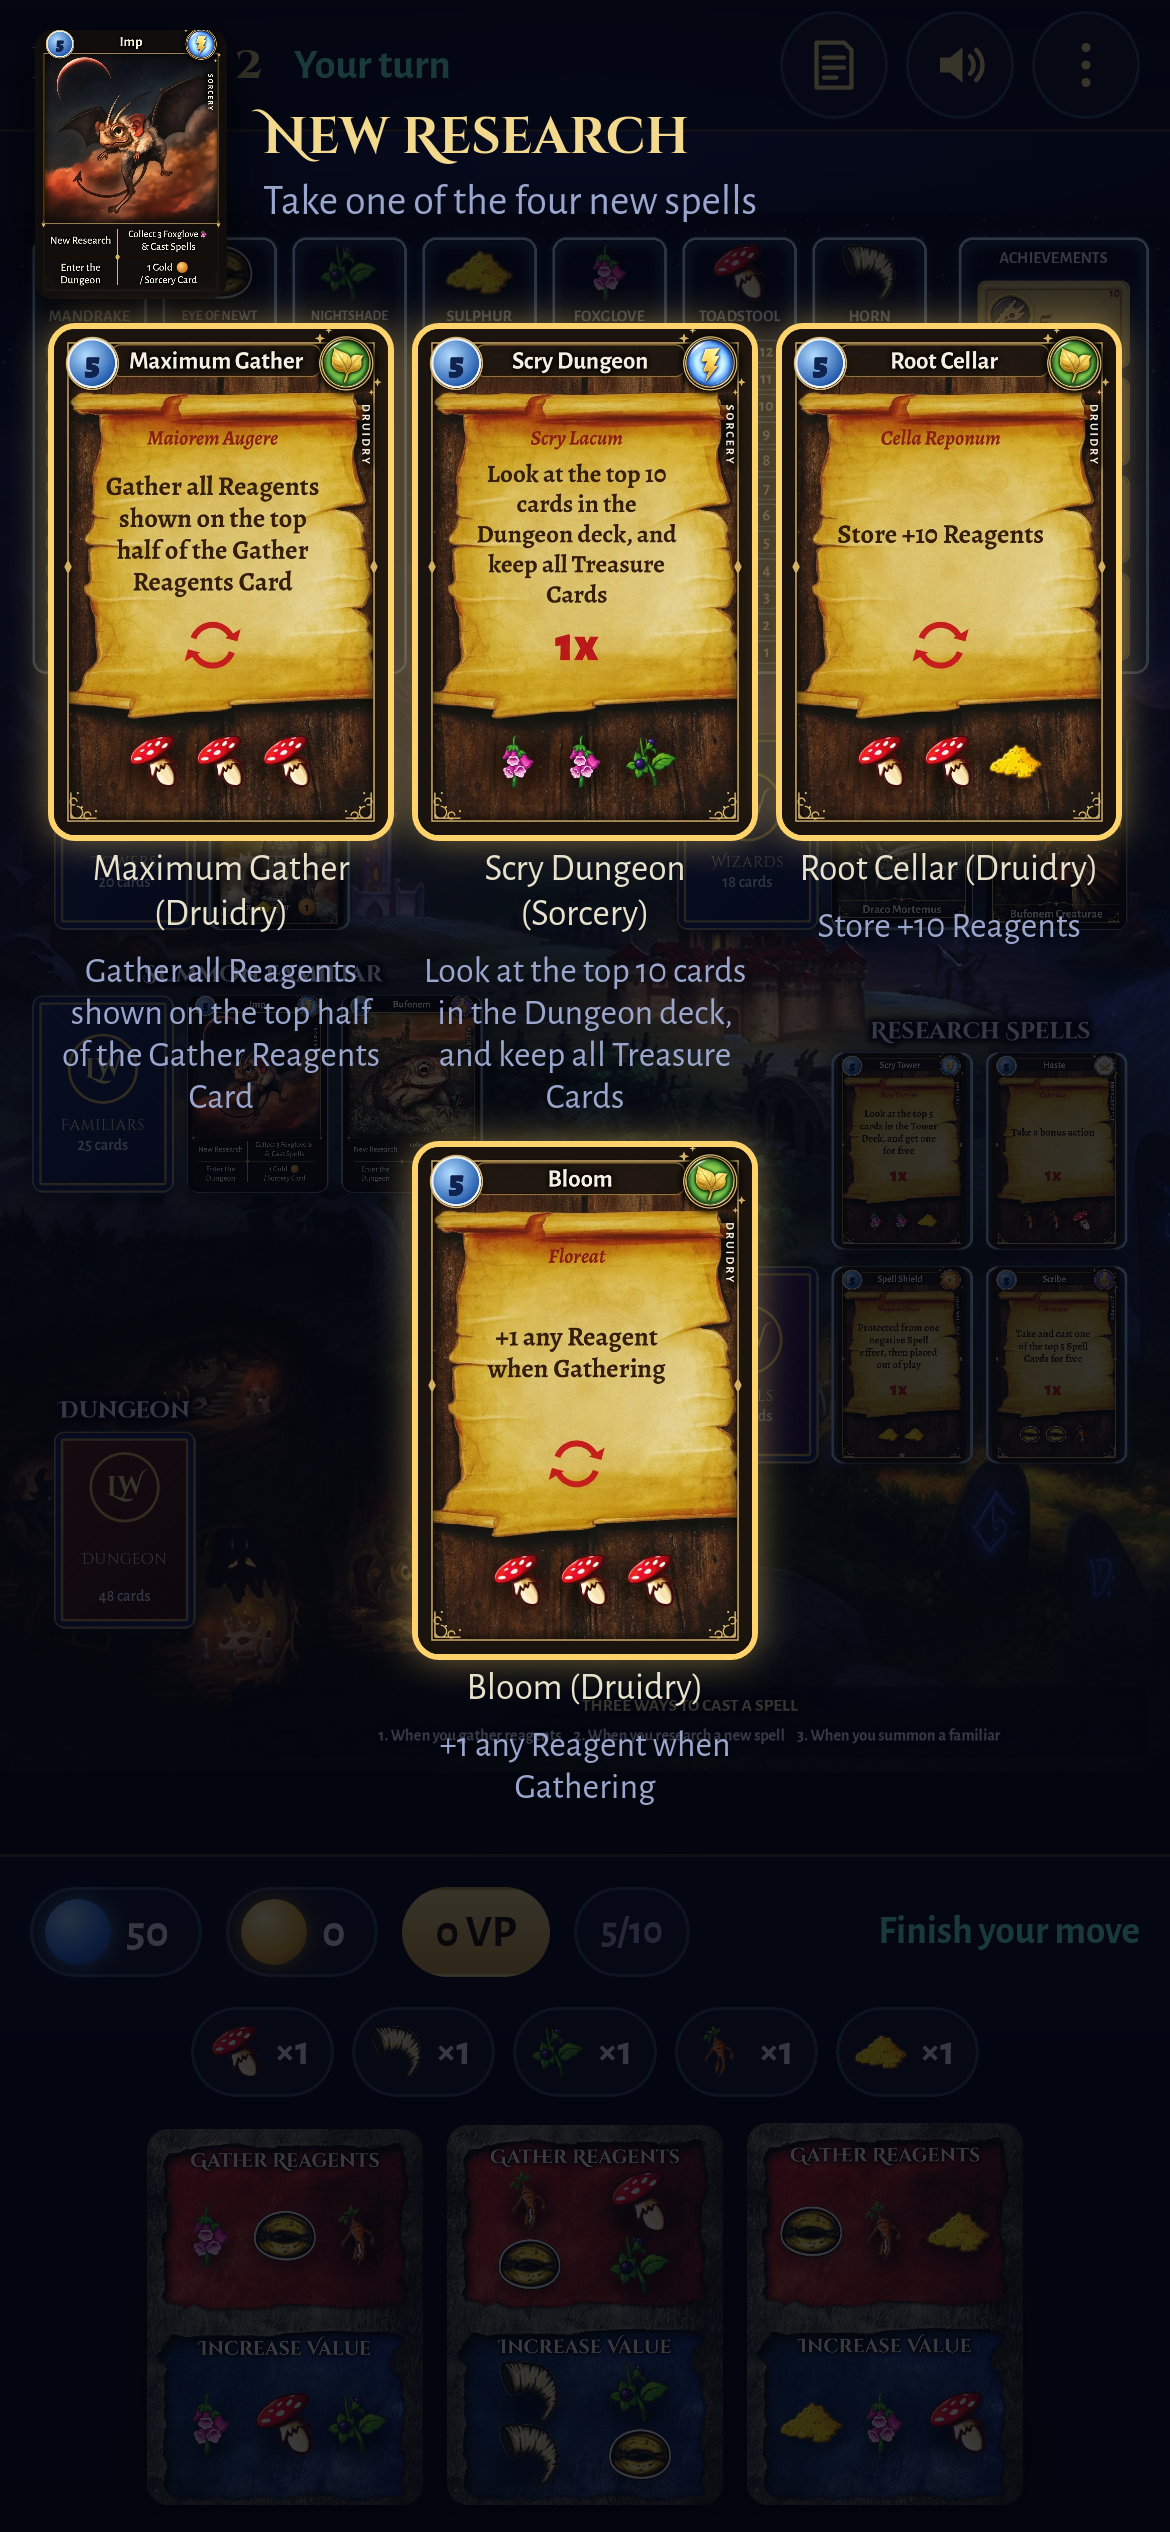
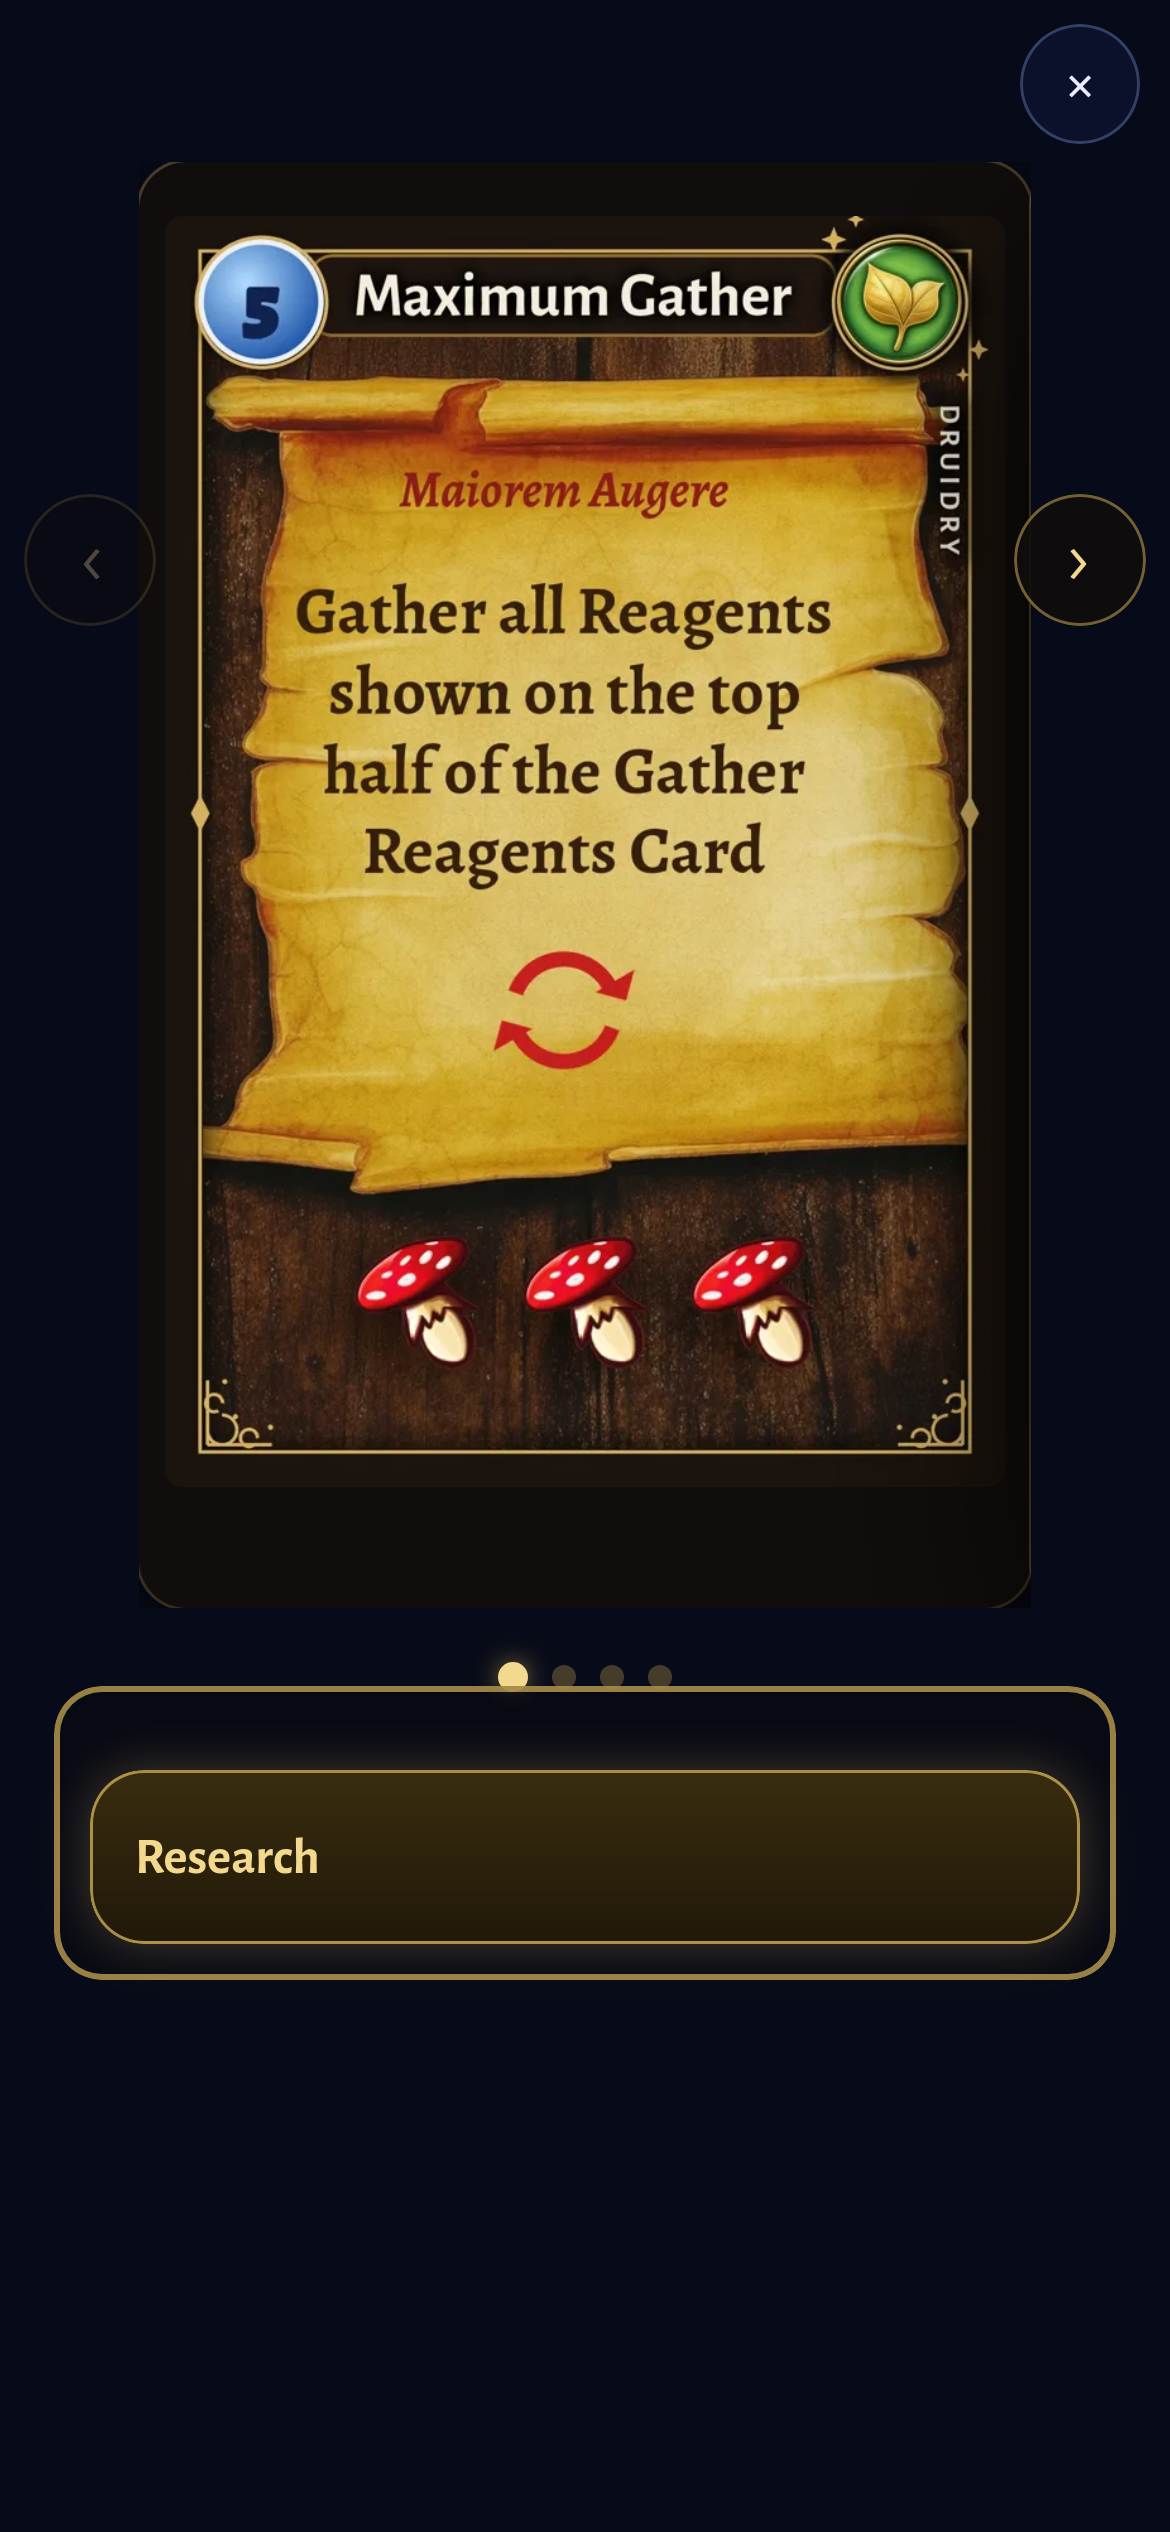
Familiar New Research looks like the Research action (#123) (#125)
* Familiar New Research uses the Research carousel (#123)

newResearchChooser built its own .opt-card grid with school, mana and reagent
chips inside each card button; '.opt-card img { width: 100% }' stretched every
chip icon to the card width (huge medallions and reagent tiles), and each card
repeated its effect text. It now opens the four spells in the same expandCard
carousel as the Research action (research-action-frame, no card-info panel) with
one free Research button. '.opt-card img' is scoped to the card art
('.opt-card > img') so chips inside any picker card keep their size.

* e2e: Research and familiar New Research keep normal-size chips (#123)

* e2e: New Research card must not be smaller than the Research card

The exact-size comparison flaked on CI WebKit, where the Research action's
reference card sometimes lays out ~96px narrower; the familiar card is now only
required to be at least as large.

---------

diff --git a/tests/e2e/research-icon-size.spec.js b/tests/e2e/research-icon-size.spec.js
@@ -1,0 +1,94 @@
+import fs from 'fs';
+import { test, expect } from './fixtures.js';
+import { boot } from './helpers.js';
+
+// Issue #123. fixtures/issue-123-research.json: Keith's round 23 save (40 mana) on his turn.
+// fixtures/issue-123-new-research.json: the same save after summoning Aranea for New Research (four spells pending).
+// A familiar's New Research must look like the Research action: one spell in the shared carousel, the research
+// action frame, no card-info text panel, and chips at their normal size.
+const RESEARCH = fs.readFileSync('tests/e2e/fixtures/issue-123-research.json', 'utf8');
+const NEW_RESEARCH = fs.readFileSync('tests/e2e/fixtures/issue-123-new-research.json', 'utf8');
+
+test.use({ viewport: { width: 430, height: 775 } });
+
+// Wait for the card's open animation to finish: its width must hold for a few frames.
+async function settled(page, testid) {
+  await page.waitForFunction((testid) => {
+    const img = document.querySelector(`[data-testid="${testid}"]:not(.out) [data-testid=expanded-img]`);
+    const w = img ? Math.round(img.getBoundingClientRect().width) : 0;
+    const prev = window.__w; window.__w = w;
+    window.__same = w > 0 && w === prev ? (window.__same || 0) + 1 : 0;
+    return window.__same >= 5;
+  }, testid, { polling: 100, timeout: 10_000 });
+}
+
+async function measure(page, testid) {
+  await settled(page, testid);
+  return page.evaluate((testid) => {
+    const ov = document.querySelector(`[data-testid="${testid}"]:not(.out)`);
+    const box = (e) => { const r = e.getBoundingClientRect(); return { w: r.width, h: r.height }; };
+    const card = ov.querySelector('[data-testid=expanded-img]');
+    const visible = (e) => e && !e.closest('[hidden]') && box(e).w > 0;
+    const others = [...ov.querySelectorAll('img')].filter((i) => visible(i) && i !== card && !i.closest('.big-frame'));
+    return {
+      cardW: card ? box(card).w : 0,
+      chipIcons: [...ov.querySelectorAll('[class*=chip] img')].filter(visible).map((i) => Math.max(box(i).w, box(i).h)),
+      otherImgs: others.map((i) => ({ src: i.getAttribute('src'), w: box(i).w })),
+      frame: !!ov.querySelector('.research-action-frame'),
+      cardText: [...ov.querySelectorAll('.ci-text, .oc-label')].filter(visible).length,
+      overflow: document.documentElement.scrollWidth - innerWidth,
+    };
+  }, testid);
+}
+
+function expectNormalSize(m) {
+  expect(m.cardW).toBeGreaterThan(100);
+  expect(m.chipIcons.every((w) => w <= 32), `chip icons ${m.chipIcons}`).toBe(true);
+  for (const o of m.otherImgs) expect(o.w, `${o.src} stays below a third of the card`).toBeLessThanOrEqual(m.cardW / 3);
+  expect(m.frame).toBe(true);
+  expect(m.cardText, 'no card-info text panel repeating the card').toBe(0);
+  expect(m.overflow).toBeLessThanOrEqual(0);
+}
+
+test('Research action: spell carousel with normal-size chips', async ({ page }) => {
+  await page.addInitScript((t) => localStorage.setItem('lw.save.v1', t), RESEARCH);
+  await boot(page);
+  await page.evaluate(() => { const g = window.lwDebug._g; window.ui.researchFlow(g, Object.keys(g.v.legal.research)[0]); });
+  await expect(page.getByTestId('research-only')).toBeVisible();
+  await page.waitForTimeout(500);
+  const m = await measure(page, 'expanded');
+  expectNormalSize(m);
+  expect(m.chipIcons.length).toBeGreaterThan(0);
+});
+
+test('familiar New Research looks like the Research action (issue #123)', async ({ page }) => {
+  await page.addInitScript((t) => localStorage.setItem('lw.save.v1', t), RESEARCH);
+  await boot(page);
+  await page.evaluate(() => { const g = window.lwDebug._g; window.ui.researchFlow(g, Object.keys(g.v.legal.research)[0]); });
+  await expect(page.getByTestId('research-only')).toBeVisible();
+  await page.waitForTimeout(500);
+  const normal = await measure(page, 'expanded');
+
+  const page2 = await page.context().newPage();
+  await page2.addInitScript((t) => localStorage.setItem('lw.save.v1', t), NEW_RESEARCH);
+  await boot(page2);
+  const nr = page2.getByTestId('new-research');
+  await expect(nr).toBeVisible();
+  await page2.waitForTimeout(500);
+  const m = await measure(page2, 'new-research');
+  expectNormalSize(m);
+  await expect(nr.locator('[data-testid=card-indicator] .dot')).toHaveCount(4);
+  // WebKit occasionally lays the Research action's card out smaller (two buttons under it); New Research must
+  // never come out smaller than it.
+  expect(m.cardW, 'card at least as large as in the Research action').toBeGreaterThanOrEqual(normal.cardW - 2);
+
+  const four = await page2.evaluate(() => window.lwDebug.view().pending.four);
+  await nr.getByTestId('nav-next').click();
+  await page2.waitForTimeout(400);
+  await nr.getByTestId('nr-take').tap();
+  await expect(nr).toHaveCount(0);
+  await expect.poll(() => page2.evaluate(() => window.lwDebug.view().pending)).toBeNull();
+  const mine = await page2.evaluate(() => window.lwDebug.view().players.find((p) => p.you).spells.map((x) => x.key || x));
+  expect(JSON.stringify(mine)).toContain(four[1]);
+  await page2.close();
+});

diff --git a/app/js/ui.js b/app/js/ui.js
@@ -1471,28 +1471,28 @@ export async function effectChooser(g) {
   return r;
 }
 
-export async function newResearchChooser(g) {
+// A familiar's New Research shows the four new spells in the same carousel as the Research action (expandCard,
+// research-action-frame, no card-info panel), with one free "Research" button per spell.
+export function newResearchChooser(g) {
   const pd = g.v.pending;
-  const ov = openOverlay('gather', { testid: 'new-research' });
-  const [p, done] = wait();
-  appendNodes(ov.el, h('div', { class: 'chooser-head' }, h('img', { src: art(pd.familiar), alt: '' }),
-    h('div', {}, h('div', { class: 'phase-title' }, 'New Research'), h('div', { class: 'ov-sub' }, 'Take one of the four new spells'))));
-  appendNodes(ov.el, h('div', { class: 'opt-grid' }, pd.four.map((k) => {
-    const c = g.cards[k] || {};
-    const school = c.school && !['Wild', 'Arch-Mage'].includes(c.school) ? c.school : null;
-    const name = (c.display || k).replace(school ? ` (${school})` : '', '');
-    const cost = Object.entries(c.cost?.reagents || {}).flatMap(([r, n]) => n === 'X' ? [r] : Array.from({ length: n }, () => r));
-    return h('button', { class: 'opt-card wide', 'data-testid': `nr-${k}`, onclick: () => done(k) },
-      h('img', { src: art(k), alt: k }), h('span', { class: 'oc-text' }, name),
-      school ? logSchoolChip(school) : null,
-      h('span', { class: 'oc-cost' }, logValueChip({ kind: 'mana', value: -(c.cost?.mana ?? 5) }),
-        ...groupReagents(cost).map(({ reagent: r, count }) => logReagentChip(r, { count }))),
-      h('span', { class: 'oc-label' }, c.effect));
-  })));
-  const k = await p;
-  const r = await g.act('choose_new_research', { spell: k }, { sound: 'select' });
-  ov.close();
-  return r;
+  return new Promise((resolve) => {
+    let result = null;
+    const ov = expandCard(g, pd.four[0], {
+      group: pd.four,
+      groupIndex: 0,
+      testid: 'new-research',
+      actionFrame: 'research-action-frame',
+      hideCardInfo: true,
+      actions: (k) => [{
+        label: 'Research', testid: 'nr-take', onClick: async () => {
+          result = await g.act('choose_new_research', { spell: k }, { sound: 'select' });
+          return !result;
+        },
+      }],
+    });
+    const close = ov.close.bind(ov);
+    ov.close = (...args) => { close(...args); resolve(result); };
+  });
 }
 
 function familiarActionIcon(use, reagent) {

diff --git a/app/css/app.css b/app/css/app.css
@@ -634,7 +634,7 @@ img { -webkit-user-drag: none; user-select: none; }
 .transmute-flask svg { width: 100%; height: 100%; }
 .transmute-arrow { font-size: .7em; }
 .opt-card { position: relative; width: 96px; display: flex; flex-direction: column; align-items: center; gap: 4px; background: none; border: none; padding: 0; }
-.opt-card img { display: block; width: 100%; height: auto; border-radius: 7px;
+.opt-card > img { display: block; width: 100%; height: auto; border-radius: 7px;
   box-shadow: 0 0 0 2px var(--glow), 0 0 16px 3px rgba(255, 211, 107, .55); animation: glowPulse 1.6s ease-in-out infinite; }
 @keyframes glowPulse { 50% { box-shadow: 0 0 0 2px var(--glow), 0 0 6px 1px rgba(255, 211, 107, .3); } }
 .opt-card .oc-label { font-size: 12px; color: var(--muted); text-align: center; }

diff --git a/tests/e2e/familiar-actions-regression.spec.js b/tests/e2e/familiar-actions-regression.spec.js
@@ -74,9 +74,9 @@ test('summon Research commits the familiar, opens four spells, and can finish', 
   await page.getByTestId('summon-research').click();
   const research = page.getByTestId('new-research');
   await expect(research).toBeVisible();
-  await expect(research.locator('[data-testid^="nr-"]')).toHaveCount(4);
+  await expect(research.locator('[data-testid=card-indicator] .dot')).toHaveCount(4);
   await research.screenshot({ path: 'docs/screenshots/familiar-new-research-dpr3.png' });
-  await research.locator('[data-testid^="nr-"]').first().tap();
+  await research.getByTestId('nr-take').tap();
   await expect(research).toHaveCount(0);
   await expect.poll(async () => {
     const p = (await view(page)).players.find((q) => q.you);

diff --git a/tests/e2e/familiar-pending-recovery.spec.js b/tests/e2e/familiar-pending-recovery.spec.js
@@ -26,8 +26,8 @@ test('a saved familiar research pending step reopens after reload', async ({ pag
   await page.waitForFunction(() => window.lwDebug?.ready(), null, { timeout: 60_000 });
   const research = page.getByTestId('new-research');
   await expect(research).toBeVisible();
-  await expect(research.locator('[data-testid^="nr-"]')).toHaveCount(4);
-  await research.locator('[data-testid^="nr-"]').first().tap();
+  await expect(research.locator('[data-testid=card-indicator] .dot')).toHaveCount(4);
+  await research.getByTestId('nr-take').tap();
   await expect.poll(async () => {
     const p = (await page.evaluate(() => window.lwDebug.view())).players.find((q) => q.you);
     return { owned: p.familiars.includes(fk), mana: p.mana };
